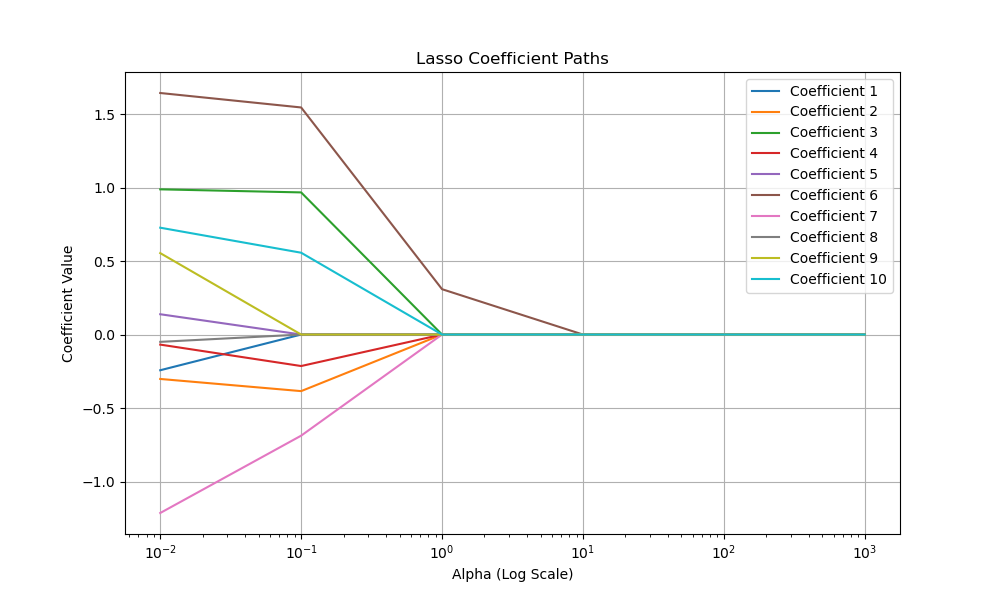
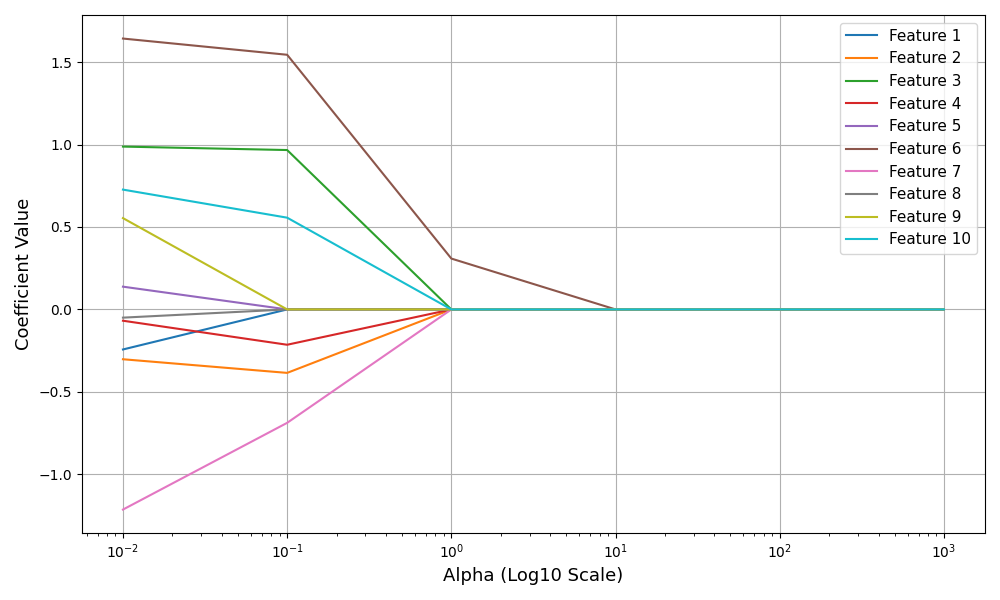
add test for train+val

diff --git a/exercise3/exercise3_cnn_pytorch.py b/exercise3/exercise3_cnn_pytorch.py
@@ -23,9 +23,9 @@ X_train, X_test, y_train, y_test = train_test_split(X, y, test_size=0.2, random_
 
 X_train, X_val, y_train, y_val = train_test_split(X_train, y_train, test_size=0.25, random_state=1) # 0.25 x 0.8 = 0.2
 
-# print("Split: Y","N_examples:",len(y),"Class 0:",len(y[y==0]),"Class 1:",len(y[y==1]),"Ratio:",len(y[y==0])/len(y[y==1]))
-# print("Split: Y_train",len(y_train),"Class 0:",len(y_train[y_train==0]),"Class 1:",len(y_train[y_train==1]),"Ratio:",len(y_train[y_train==0])/len(y_train[y_train==1]))
-# print("Split: Y_test",len(y_test),"Class 0:",len(y_test[y_test==0]),"Class 1:",len(y_test[y_test==1]),"Ratio:",len(y_test[y_test==0])/len(y_test[y_test==1]))
+print("Split: Y","N_examples:",len(y),"Class 0:",len(y[y==0]),"Class 1:",len(y[y==1]),"Ratio:",len(y[y==0])/len(y[y==1]))
+print("Split: Y_train",len(y_train),"Class 0:",len(y_train[y_train==0]),"Class 1:",len(y_train[y_train==1]),"Ratio:",len(y_train[y_train==0])/len(y_train[y_train==1]))
+print("Split: Y_test",len(y_test),"Class 0:",len(y_test[y_test==0]),"Class 1:",len(y_test[y_test==1]),"Ratio:",len(y_test[y_test==0])/len(y_test[y_test==1]))
 # print("Split: Y_val",len(y_val),"Class 0:",len(y_val[y_val==0]),"Class 1:",len(y_val[y_val==1]),"Ratio:",len(y_val[y_val==0])/len(y_val[y_val==1]))
 
 # _,n_features=X_train.shape
@@ -66,7 +66,9 @@ class FFNDataset(Dataset):
                 X_array,y_array=sm.fit_resample(X_array,y_array)
             elif augmentation:
                 print("Using Augmentation")
+                print(X_array.shape,y_array.shape)
                 X_array,y_array=self_augmentation_rotate_flip(X_array,y_array)
+                print(X_array.shape,y_array.shape)
                 #X_array,y_array=self_augmentation_shift(X_array,y_array)
         self.X=torch.tensor(X_array,dtype=torch.float32).reshape(X_array.shape[0],3,28,28)
         self.y=torch.tensor(y_array,dtype=torch.float32).long()
@@ -77,23 +79,6 @@ class FFNDataset(Dataset):
     def __getitem__(self, idx):
         return self.X[idx], self.y[idx]
     
-class EarlyStopper:
-    def __init__(self, patience=10, min_delta=0):
-        self.patience = patience
-        self.min_delta = min_delta
-        self.counter = 0
-        self.min_validation_loss = float('inf')
-
-    def early_stop(self, validation_loss):
-        if validation_loss < self.min_validation_loss:
-            self.min_validation_loss = validation_loss
-            self.counter = 0
-        elif validation_loss > (self.min_validation_loss + self.min_delta):
-            self.counter += 1
-            if self.counter >= self.patience:
-                return True
-        return False
-
 def train_loop(dataloader, model, loss_fn, optimizer):
     # Set the model to training mode - important for batch normalization and dropout layers
     # Unnecessary in this situation but added for best practices
@@ -142,7 +127,6 @@ def test_loop(dataloader, model, loss_fn):
     print(f"Recall:{(100*recall):>0.1f}%, Specificity:{(100*specificity):>0.1f}%, Balanced Accuracy: {(100*balanced_acc):>0.1f}%,  Avg loss: {test_loss:>8f} \n")
     return balanced_acc
 #flipping images vertically or creating mirrored images
-early_stopper = EarlyStopper(patience=3, min_delta=0)
 model=CNN()
 learning_rate = 1e-3
 batch_size = 128
@@ -155,18 +139,23 @@ train_dataloader = DataLoader(FFNDataset(X_train,y_train,mode="train",oversampli
 val_dataloader = DataLoader(FFNDataset(X_val,y_val), batch_size=batch_size,shuffle=True)
 test_loss, correct = 0, 0
 
-
+print("Tuning Hyperparameters with Validation Set")
 for t in range(epochs):
-    train_dataloader.dataset
     print(f"Epoch {t+1}\n-------------------------------")
     train_loop(train_dataloader, model, loss_fn, optimizer)
     print(f"Validation Results:")
-    validation_metric=test_loop(val_dataloader, model, loss_fn)
-    # if early_stopper.early_stop(validation_metric):
-    #     print("Early Stop")
-    #     break
+    test_loop(val_dataloader, model, loss_fn)
+
 print("Done Traning!")
 
-val_dataloader = DataLoader(FFNDataset(X_test,y_test), batch_size=batch_size)
-print("Test Results")
-test_loop(val_dataloader,model,loss_fn)
+model=CNN()
+optimizer = torch.optim.AdamW(model.parameters(), lr=learning_rate,weight_decay=0.01)
+print("Test Results on X_test")
+print(X_train.shape,y_train.shape)
+train_dataloader = DataLoader(FFNDataset(X_train,y_train,mode="train",oversampling=False,augmentation=True), batch_size=batch_size,shuffle=True)
+test_dataloader = DataLoader(FFNDataset(X_test,y_test), batch_size=batch_size)
+for t in range(epochs):
+    print(f"Epoch {t+1}\n-------------------------------")
+    train_loop(train_dataloader, model, loss_fn, optimizer)
+    print(f"Validation Results:")
+    test_loop(test_dataloader, model, loss_fn)

diff --git a/exercise2/weights_plot2.py b/exercise2/weights_plot2.py
@@ -20,6 +20,13 @@ for prepro in [""]:
     X_train=np.load("X_train_regression2.npy") #shape -> (15,10)
     y_train=np.load("y_train_regression2.npy") #shape -> (15,1)
 
+    if prepro == "_zscore":
+        X_train = (X_train - np.mean(X_train, axis=0)) / np.std(X_train, axis=0)
+        # y_train = (y_train - np.mean(y_train, axis=0)) / np.std(y_train, axis=0)
+    elif prepro == "_norm":
+        X_train= (X_train - np.min(X_train,axis=0)) / (np.max(X_train,axis=0) - np.min(X_train,axis=0))
+        # y_train= (y_train - np.min(y_train,axis=0)) / (np.max(y_train,axis=0) - np.min(y_train,axis=0))
+
     ridge_coefficients = []
     lasso_coefficients = []
 
@@ -28,51 +35,45 @@ for prepro in [""]:
             if model_id=="ridge":
                 model=Ridge(alpha)
                 model.fit(X_train,y_train)
-                ridge_coefficients.append(np.squeeze(model.coef_))
+                ridge_coefficients.append(model.coef_)
             elif model_id == "lasso":
                 model=Lasso(alpha)
                 model.fit(X_train,y_train)
                 lasso_coefficients.append(model.coef_)
-                print(model.coef_.shape)
-
 
     ridge_coefficients = np.array(ridge_coefficients) 
     lasso_coefficients = np.array(lasso_coefficients)
 
-    plt.figure(figsize=(10, 6))
-    print(lasso_coefficients.shape) 
- 
-    alphas = np.array(alphas)
-    print(alphas.shape)
+    plt.figure(figsize=(10, 6))  
 
     for coef_index in range(lasso_coefficients.shape[1]):
-        plt.plot(alphas, lasso_coefficients[:, coef_index], label=f'Coefficient {coef_index + 1}')
+        plt.plot(alphas, lasso_coefficients[:, coef_index], label=f'Feature {coef_index + 1}')
 
     plt.xscale('log')  
-    plt.xlabel('Alpha (Log Scale)')
-    plt.ylabel('Coefficient Value')
-    plt.title('Lasso - Coefficient Variation')
-    plt.legend()
+    plt.xlabel('Alpha (Log10 Scale)', fontsize=13)
+    plt.ylabel('Coefficient Value',fontsize=13)
+    plt.legend(fontsize=11)
     plt.grid(True)
 
     filename = f'lasso_coef_{prepro}.png'
     save_path = os.path.join(save_folder, filename)
+    plt.tight_layout()
     plt.savefig(save_path)
 
     plt.figure(figsize=(10, 6))  
     
+
     for coef_index in range(ridge_coefficients.shape[1]):
-        plt.plot(alphas, ridge_coefficients[:, coef_index], label=f'Coefficient {coef_index + 1}')
+        plt.plot(alphas, ridge_coefficients[:, coef_index], label=f'Feature {coef_index + 1}')
 
     plt.xscale('log')
-    plt.xlabel('Alpha (Log Scale)')
-    plt.ylabel('Coefficient Value')
-    plt.title('Ridge Coefficients')
-    plt.legend()
+    plt.xlabel('Alpha (Log10 Scale)', fontsize=13)
+    plt.legend(fontsize=11)
     plt.grid(True)
 
     filename = f'ridge_coef_{prepro}.png'
     save_path = os.path.join(save_folder, filename)
+    plt.tight_layout()
     plt.savefig(save_path)
 
 

diff --git a/exercise1/weights_plot.py b/exercise1/weights_plot.py
@@ -47,17 +47,17 @@ for prepro in ["","_zscore", "_norm"]:
     plt.figure(figsize=(10, 6))  
 
     for coef_index in range(lasso_coefficients.shape[1]):
-        plt.plot(alphas, lasso_coefficients[:, coef_index], label=f'Coefficient {coef_index + 1}')
+        plt.plot(alphas, lasso_coefficients[:, coef_index], label=f'Feature {coef_index + 1}')
 
     plt.xscale('log')  
-    plt.xlabel('Alpha (Log Scale)')
-    plt.ylabel('Coefficient Value')
-    plt.title('Lasso Coefficient Paths')
-    plt.legend()
+    plt.xlabel('Alpha (Log10 Scale)', fontsize=13)
+    plt.ylabel('Coefficient Value',fontsize=13)
+    plt.legend(fontsize=11)
     plt.grid(True)
 
     filename = f'lasso_coef_{prepro}.png'
     save_path = os.path.join(save_folder, filename)
+    plt.tight_layout()
     plt.savefig(save_path)
 
     plt.figure(figsize=(10, 6))  
@@ -65,17 +65,16 @@ for prepro in ["","_zscore", "_norm"]:
     ridge_coefficients = ridge_coefficients.reshape(6, 10)
 
     for coef_index in range(ridge_coefficients.shape[1]):
-        plt.plot(alphas, ridge_coefficients[:, coef_index], label=f'Coefficient {coef_index + 1}')
+        plt.plot(alphas, ridge_coefficients[:, coef_index], label=f'Feature {coef_index + 1}')
 
     plt.xscale('log')
-    plt.xlabel('Alpha (Log Scale)')
-    plt.ylabel('Coefficient Value')
-    plt.title('Ridge Coefficients')
-    plt.legend()
+    plt.xlabel('Alpha (Log10 Scale)', fontsize=13)
+    plt.legend(fontsize=11)
     plt.grid(True)
 
     filename = f'ridge_coef_{prepro}.png'
     save_path = os.path.join(save_folder, filename)
+    plt.tight_layout()
     plt.savefig(save_path)
 
 

diff --git a/exercise2/utils.py b/exercise2/utils.py
@@ -42,10 +42,10 @@ def get_best_model(X_train,y_train):
                 best_alpha=alpha
 
     #Best model - the one with the least mean MSE from crossvalidation with k=5
-    print("the best model is %s regression with an alpha of %s and a mean score of %s" % (
-        best_model,
-        best_alpha,
-        best_mean_score))
+    # print("the best model is %s regression with an alpha of %s and a mean score of %s" % (
+    #     best_model,
+    #     best_alpha,
+    #     best_mean_score))
     return best_model,best_mean_score
 
 def fit_linear_models(X_train,y_train,X_train_1,y_train_1,X_train_2,y_train_2,final=False):

diff --git a/exercise2/exercise2_ransac.py b/exercise2/exercise2_ransac.py
@@ -16,7 +16,7 @@ for threshold in [MAD,MAE]:
     print("Threshold:", threshold)
     print("How many values above threshold:",len(y_train_init[y_train_init>threshold]))
     max_n_samples=len(y_train_init[y_train_init>threshold])
-    for n_samples in range(1,100,1):
+    for n_samples in range(1,20,1):
         reg = RANSACRegressor(random_state=0,min_samples=n_samples,max_trials=200,residual_threshold=threshold,loss='absolute_error',stop_probability=1.0)
         reg.fit(X_train_init,y_train_init)
         #print("Number of inliers",len(reg.inlier_mask_[reg.inlier_mask_==True]))

diff --git a/exercise2/feature_selection.py b/exercise2/feature_selection.py
@@ -1,0 +1,13 @@
+import numpy as np
+from sklearn.linear_model import LinearRegression,Lasso,Ridge
+from sklearn.model_selection import cross_validate
+import pandas as pd
+import matplotlib.pyplot as plt
+from utils import get_best_model,fit_linear_models
+from sklearn.preprocessing import RobustScaler,StandardScaler
+X_train=np.load("X_train_regression2.npy") #shape -> (100, 4)
+y_train=np.load("y_train_regression2.npy") #shape -> (100, 1)
+
+df=pd.DataFrame(np.hstack((X_train,y_train)))
+df.columns=[f"Feature{i}" for i in range(1,5)]+["Output"]
+print(df.corr())
